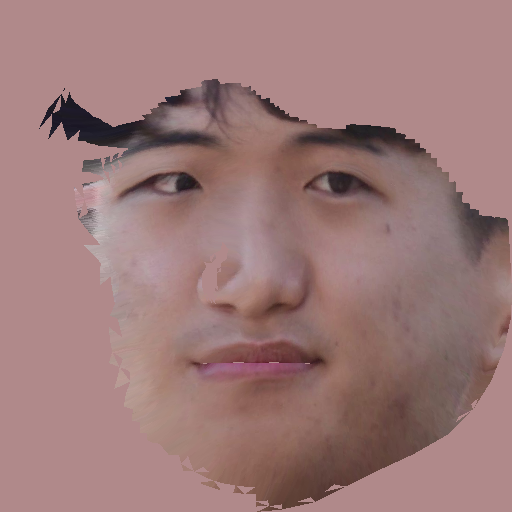
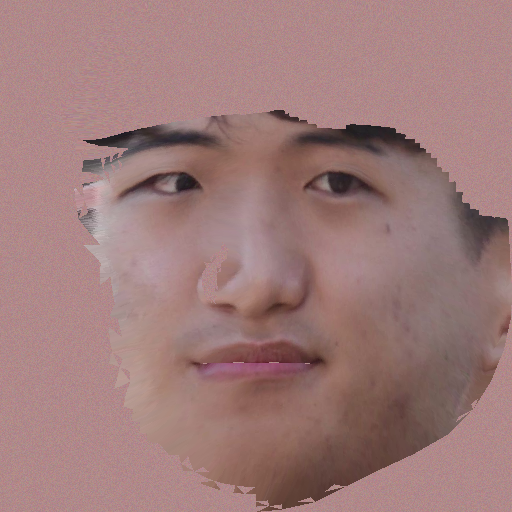
added noise, but not good

Changed region(s): [[0.0625, 0.1562, 0.5625, 0.2812]]

diff --git a/face.py b/face.py
@@ -49,12 +49,18 @@ def generate(i) : # input name, output name
         center_point = [shape.parts()[2].x + shape.parts()[31].x,  shape.parts()[2].y + shape.parts()[31].y ]
          
         cl = img[int(center_point[1]/2), int(center_point[0]/2)] # face random color
+        maxy = shape.parts()[24].y
+
+        #from matplotlib import pyplot as plt
+        #cv2.circle(img, (shape.parts()[24].x, shape.parts()[24].y), 10, (0, 0, 255), -1)
+        #plt.imshow(img)
+        #plt.show()
 
         for part in shape.parts():
             landmarks.append(eos.core.Landmark(str(index),[float(part.x),float(part.y)]))
             index +=1
         break
-    
+
     #landmarks = read_pts('res/image_0010.pts')
     # load eos model
     model = eos.morphablemodel.load_model("res/sfm_shape_3448.bin")
@@ -110,6 +116,7 @@ def generate(i) : # input name, output name
     
     img[hair] = dominant
     img[background] = dominant
+    img[ : maxy-50, :] = dominant
     
     #img = cv2.cvtColor(img, cv2.COLOR_RGB2RGB)
     #print(img.shape, type(img))
